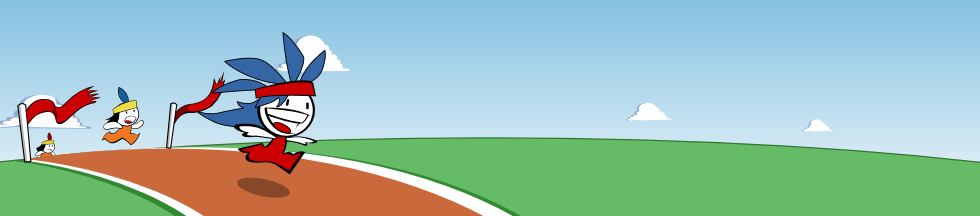
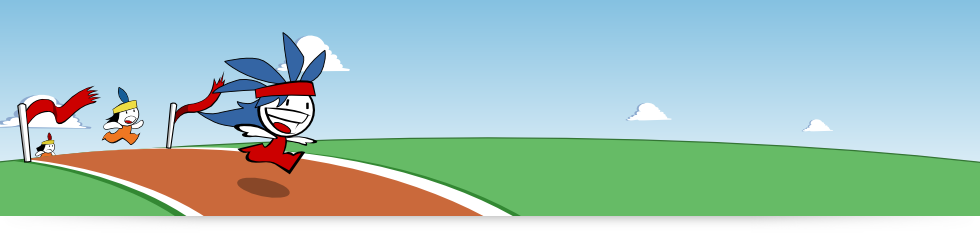
Add shadow to sprint
git-svn-id: svn://cherokee-project.com/web/branches/beta-ctk@6541 5dc97367-97f1-0310-9951-d761b3857238

Changed region(s): [[0.0, 0.1389, 1.0, 1.0], [0.6429, 0.4167, 0.7041, 0.5556]]

diff --git a/static/css/cherokee.css b/static/css/cherokee.css
@@ -40,7 +40,7 @@ ul.list li { line-height: 1.5em; }
 #footer { width: 980px; margin: 0 auto; text-align: left; }
 #footer-inner { font-size: 90%; padding: 22px 30px 30px 90px; color: #3465a4; background: transparent url(../images/o.png) 15px 15px no-repeat; }
 #bar  { width: 980px; margin: 0 auto; height: 52px; }
-#sprint  { background: #eff5fd url(../images/sprint.png) top center no-repeat; height: 215px; }
+#sprint  { background: #eff5fd url(../images/sprint.png) top center no-repeat; height: 236px; }
 #mainmsg { padding: 20px 30px 30px 15px; margin-left: 360px; }
 #mainmsg h1 { color: #fff; font-size: 28px; font-weight: bold; text-shadow: #072e5e 0px 1px 0px; text-transform: uppercase; margin: 0; padding-bottom: 0px; font-family: "CA BND Web Bold", Verdana, Arial, Helvetica, sans-serif; }
 #mainmsg p { color: #072e5e; font-size: 18px; }
